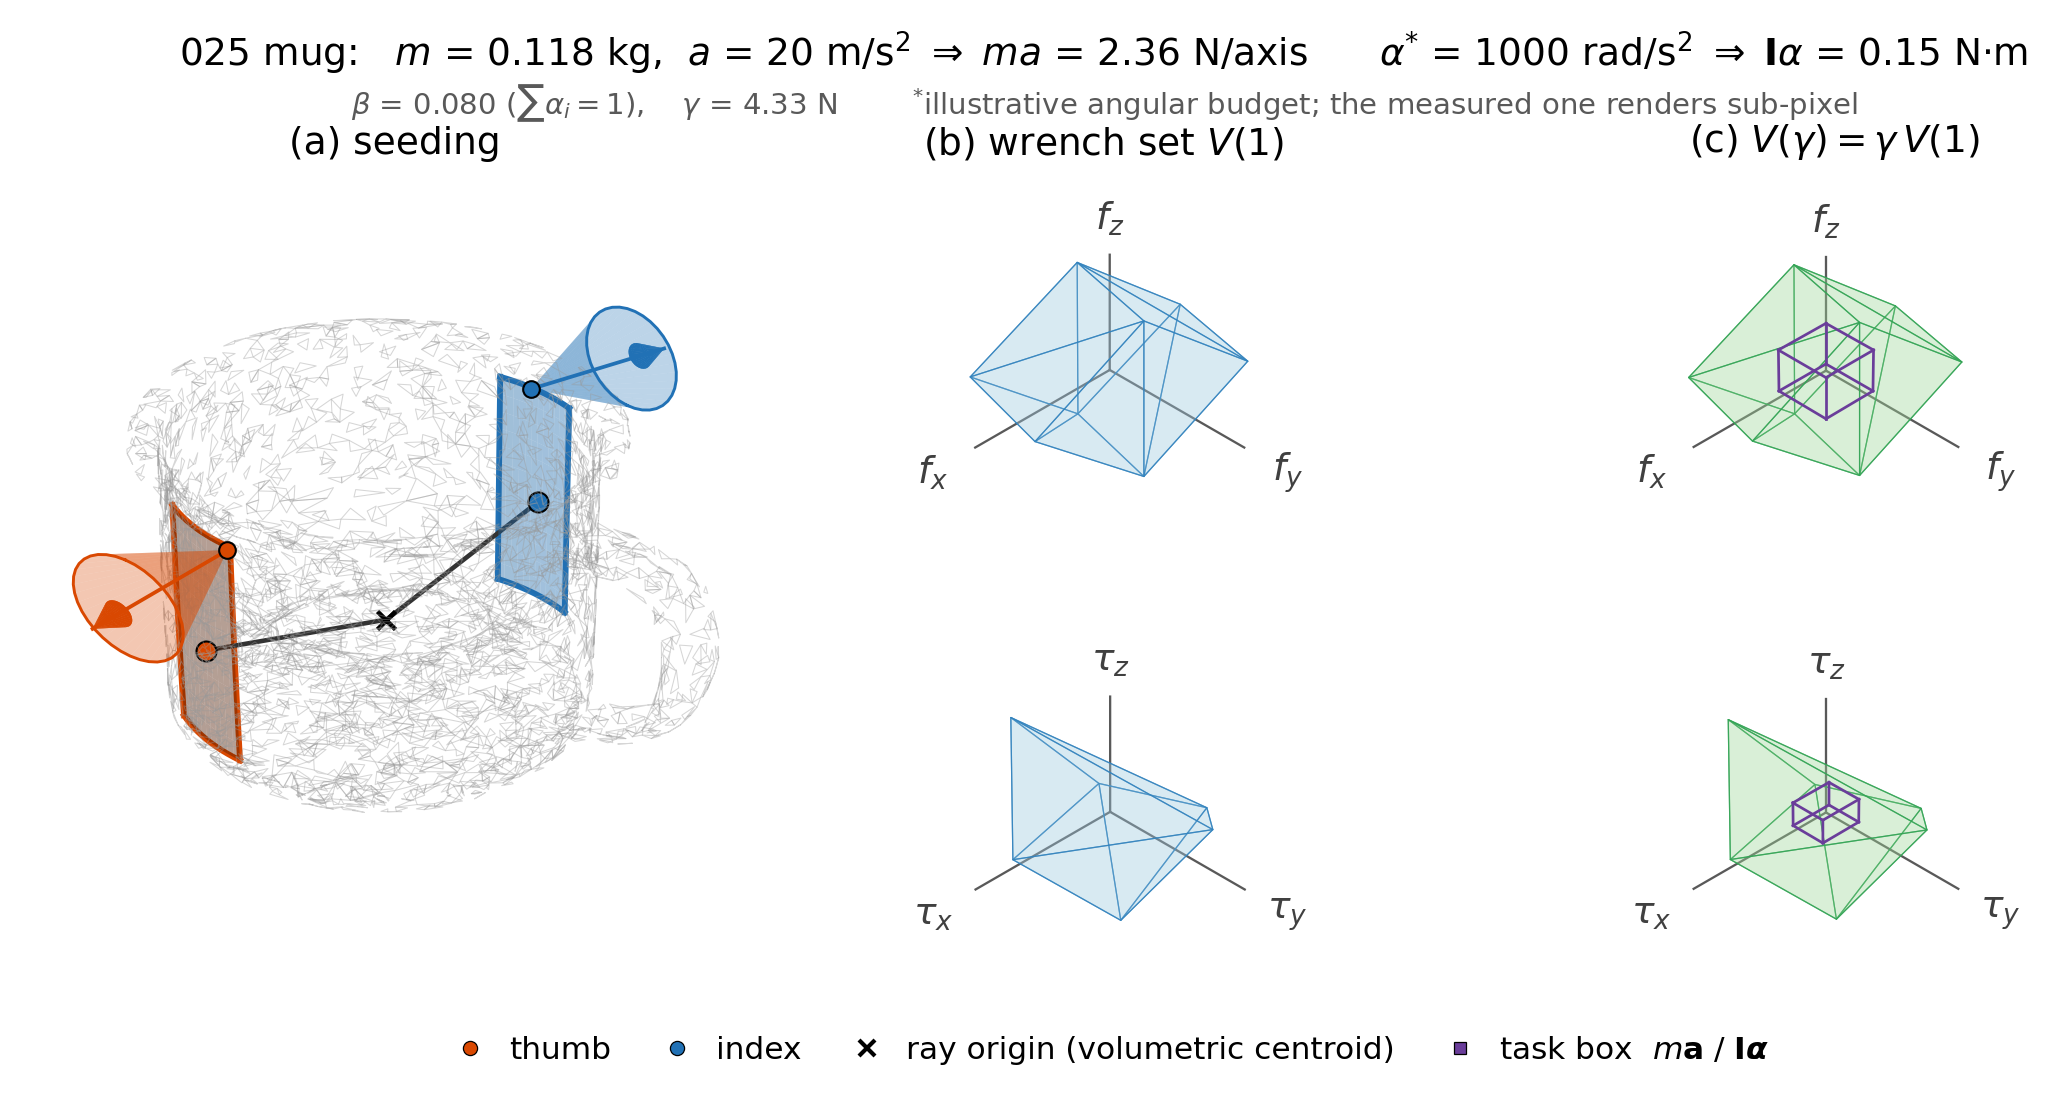
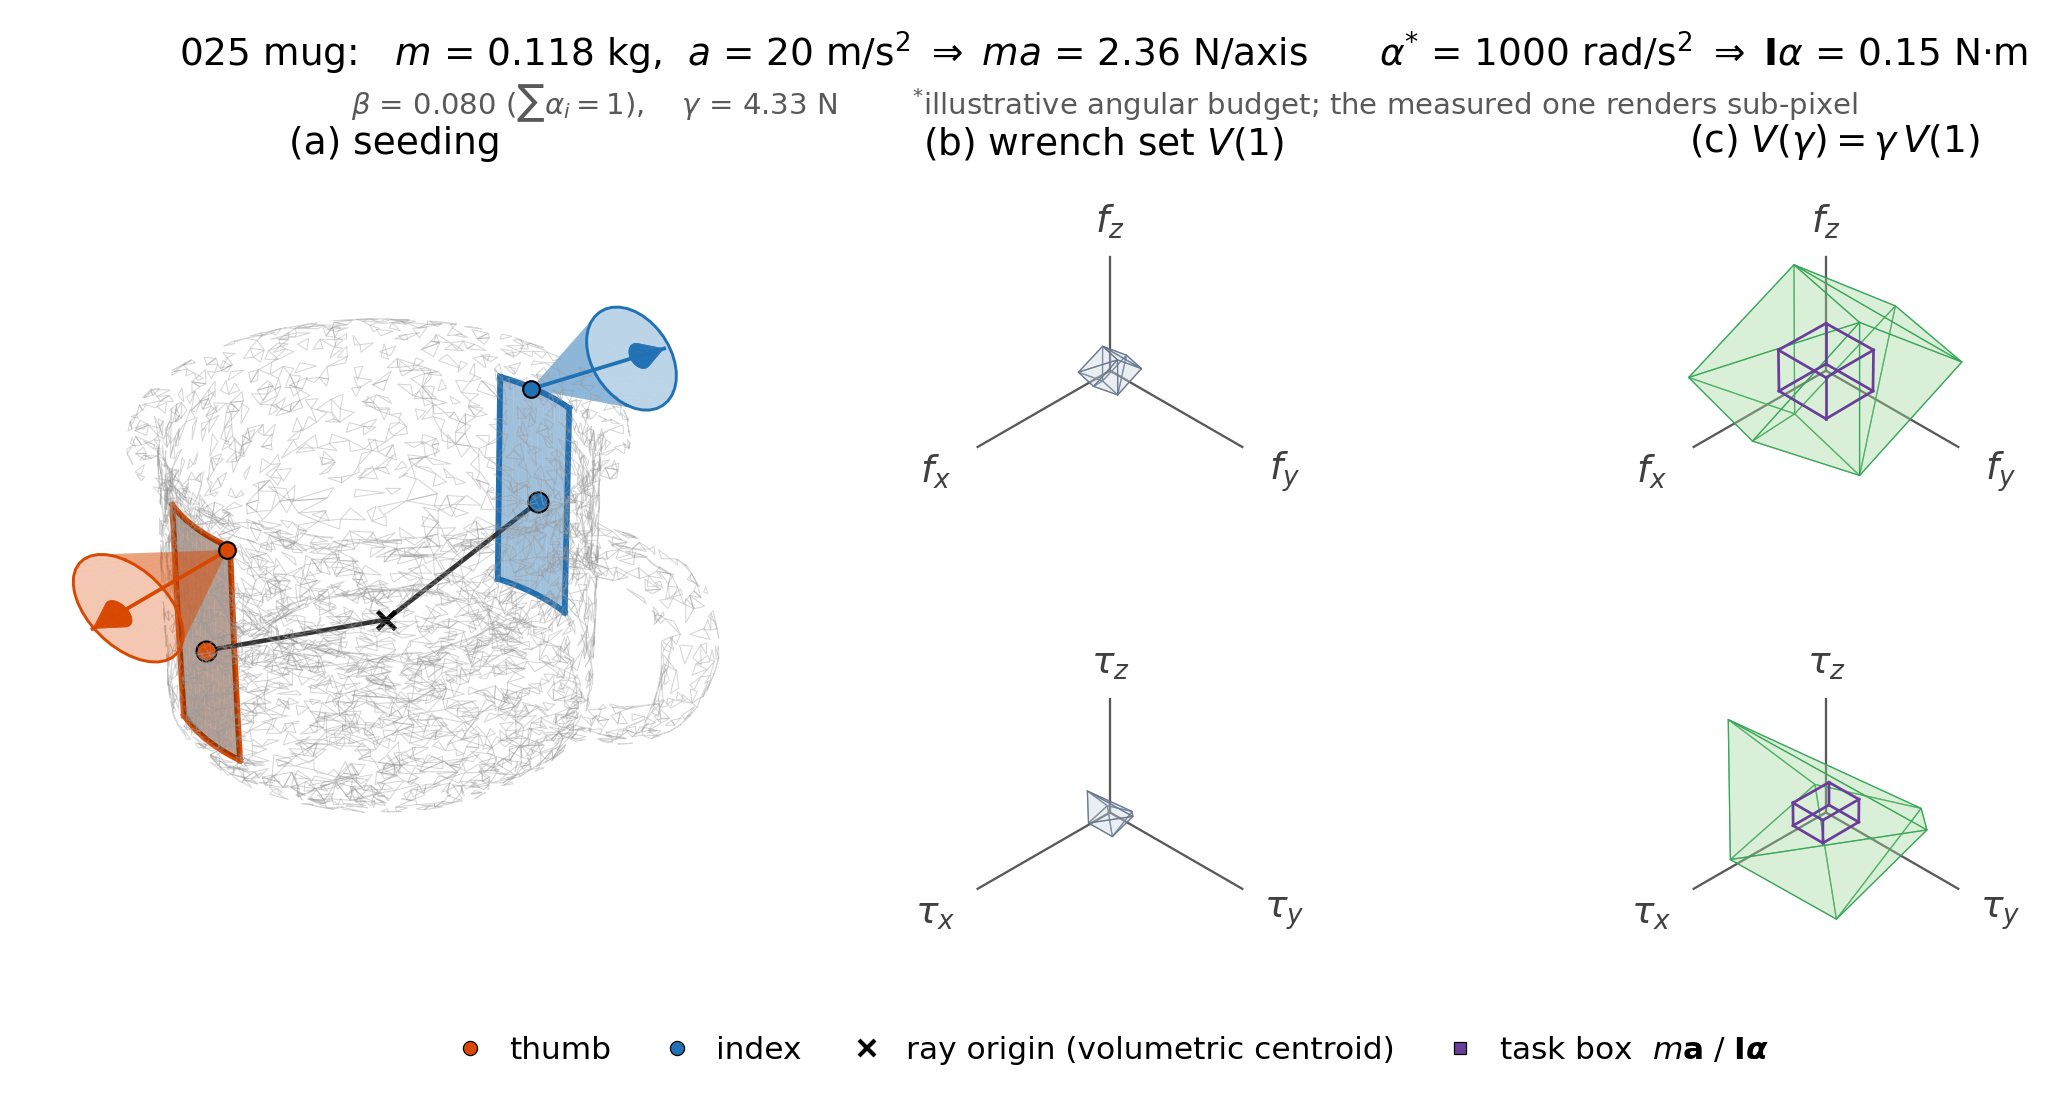
figures: shared axis limits across (b)/(c); slate hull in (b)
SHARED LIMITS make the scaling visible. Framing each panel to its own hull
drew V(1) and V(gamma) at the same size on the page, which hides the one
thing the pair exists to show. With a common frame V(1) is a small solid
and V(gamma) fills it -- gamma = 4.33 read directly off the geometry.

This reverses an earlier change in this file that framed (b) to itself.
That was the right call while the task box was drawn in BOTH panels, since
the box set the limits and left V(1) at a quarter of its frame. With the
box now only in (c), the shared frame costs nothing and buys the
comparison.

(b)'s hull is SLATE GREY, not blue: its blue was the index colour, so a
wrench hull and a contact patch shared a hue. Teal was the obvious
alternative and would have read as a shade of (c)'s green. Neutral also
says the right thing -- V(1) and V(gamma) are the SAME set, so the panels
should differ in size rather than in what the colour implies.

Nothing in the figure now shares a colour with something it is not:
thumb/patch orange, index/patch blue, V(1) slate, V(gamma) green, task box
purple.

diff --git a/figures/make_pipeline_figure.py b/figures/make_pipeline_figure.py
@@ -53,7 +53,11 @@ C_TH, C_IX = "#d94801", "#2171b5"          # thumb / index: contacts AND patches
 # are two projections of ONE set, so colouring them differently implied they
 # were different objects. Both are teal/slate rather than orange or blue, so a
 # hull is never read as a contact patch, and the task box stays purple.
-C_HULL_B_LO, C_HULL_B_HI = "#9ecae1", "#3182bd"   # (b) V(1)
+# (b) is SLATE GREY, not a hue: its blue conflicted with the index colour, and
+# teal would have read as a shade of (c)'s green. Neutral also says the right
+# thing -- V(1) is the same set as V(gamma), so the panels should differ in
+# SIZE, not in what the colour implies.
+C_HULL_B_LO, C_HULL_B_HI = "#cbd5e1", "#64748b"   # (b) V(1)
 C_HULL_C_LO, C_HULL_C_HI = "#a1d99b", "#31a354"   # (c) V(gamma)
 
 
@@ -418,16 +422,15 @@ def panel_b(fig, gs, W, alpha, beta, box_f=None, box_t=None, lim_f=None,
     sub = gs.subgridspec(2, 1, hspace=0.0)
     Wa = np.asarray(W, float)
     ax_f = fig.add_subplot(sub[0, 0], projection="3d")
-    # NO task box and NO shared limits here. Drawing the box in both panels
-    # made the comparison explicit but left V(1) at a quarter of the frame,
-    # since the shared limits are set by the LARGER of the two. (c) carries the
-    # containment story; (b) just shows the wrench set's shape, framed to
-    # itself. The gamma factor is stated in the suptitle either way.
+    # SHARED AXIS LIMITS with (c). Framing each panel to its own hull would
+    # draw V(1) and V(gamma) at the same size on the page and hide the scaling
+    # entirely -- the one thing the pair exists to show. With a common frame,
+    # V(1) is visibly gamma times smaller. The task box stays in (c) only.
     _wrench_hull(ax_f, Wa[3:, :].T, "", C_HULL_B_LO, C_HULL_B_HI,
-                 axlab=(r"$f_x$", r"$f_y$", r"$f_z$"))
+                 axlab=(r"$f_x$", r"$f_y$", r"$f_z$"), lim=lim_f)
     ax_t = fig.add_subplot(sub[1, 0], projection="3d")
     _wrench_hull(ax_t, Wa[:3, :].T, "", C_HULL_B_LO, C_HULL_B_HI,
-                 axlab=(r"$\tau_x$", r"$\tau_y$", r"$\tau_z$"))
+                 axlab=(r"$\tau_x$", r"$\tau_y$", r"$\tau_z$"), lim=lim_t)
     return ax_f
 
 
